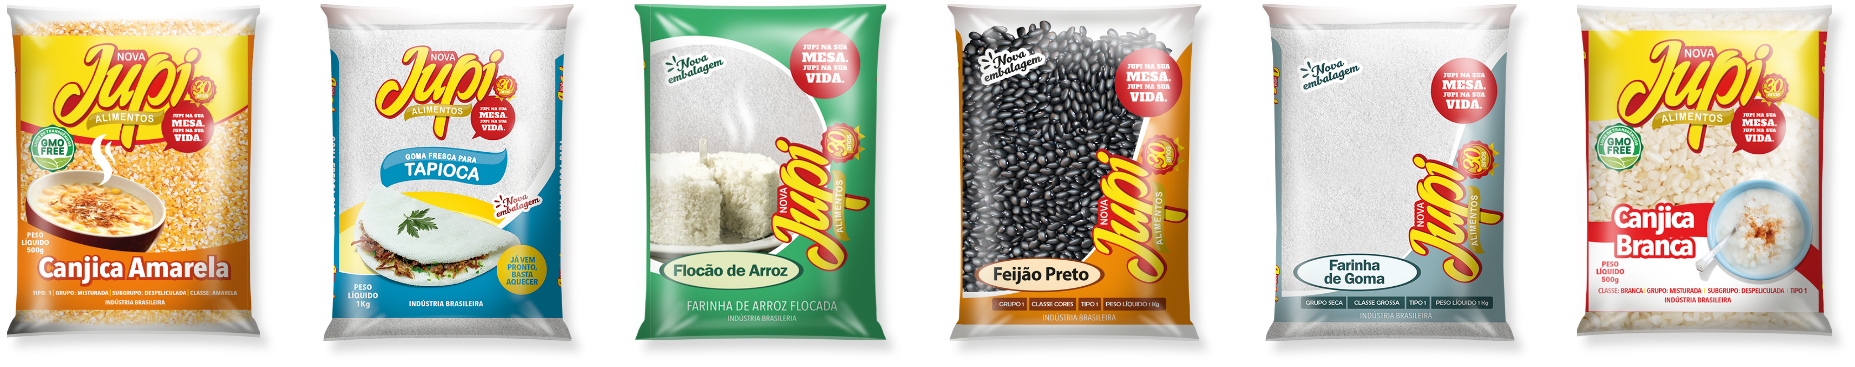
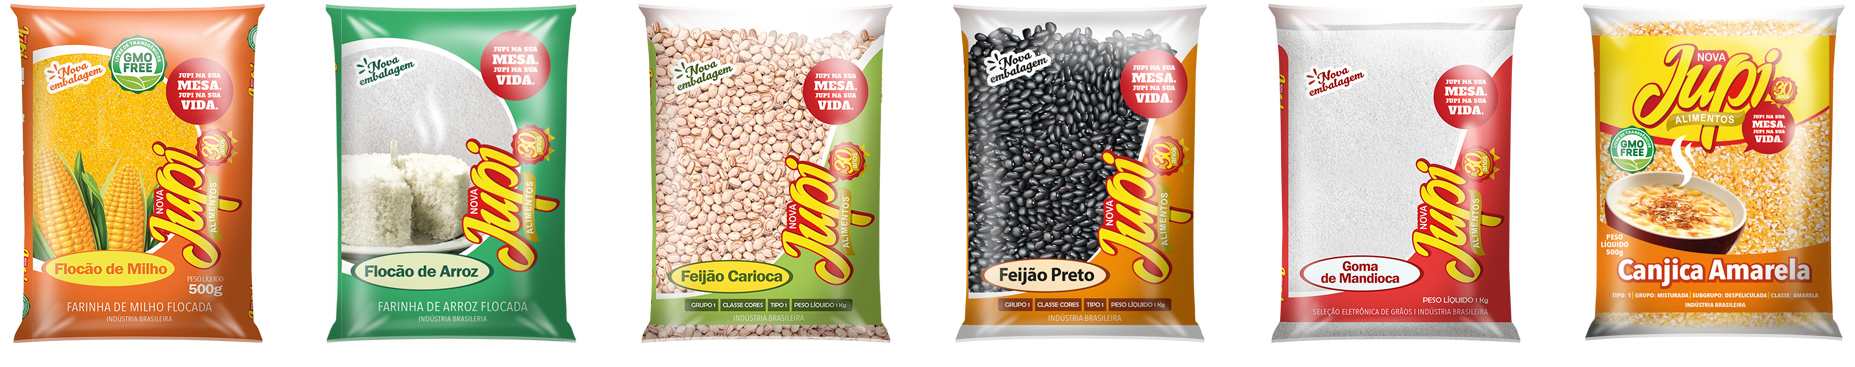
:recycle: Highlight images changed

diff --git a/src/components/Highlights/index.js b/src/components/Highlights/index.js
@@ -19,9 +19,9 @@ const Highlights = () => {
       <HighlightsWrapper className='row'>
         <div className='col-12'>
           <Highlight>
-            <HighlightTitle>Goma Para Tapioca</HighlightTitle>
+            <HighlightTitle>Flocão de Milho</HighlightTitle>
             <StaticImage
-              src='../../images/products/tapioca.png'
+              src='../../images/products/flocao-milho.png'
               alt='Família Jupi'
               placeholder='blurred'
               layout='fullWidth'
@@ -45,9 +45,9 @@ const Highlights = () => {
         </div>
         <div className='col-12'>
           <Highlight>
-            <HighlightTitle>Fava</HighlightTitle>
+            <HighlightTitle>Feijão Carioca</HighlightTitle>
             <StaticImage
-              src='../../images/products/fava.png'
+              src='../../images/products/feijao-carioca.png'
               alt='Família Jupi'
               placeholder='blurred'
               layout='fullWidth'
@@ -71,9 +71,9 @@ const Highlights = () => {
         </div>
         <div className='col-12'>
           <Highlight>
-            <HighlightTitle>Flocão de Milho</HighlightTitle>
+            <HighlightTitle>Goma de Mandioca</HighlightTitle>
             <StaticImage
-              src='../../images/products/flocao-milho.png'
+              src='../../images/products/goma-mandioca.png'
               alt='Família Jupi'
               placeholder='blurred'
               layout='fullWidth'
@@ -97,9 +97,9 @@ const Highlights = () => {
         </div>
         <div className='col-12'>
           <Highlight>
-            <HighlightTitle>Flocão de Arroz</HighlightTitle>
+            <HighlightTitle>Canjica Amarela</HighlightTitle>
             <StaticImage
-              src='../../images/products/flocao-arroz.png'
+              src='../../images/products/canjica-amarela.png'
               alt='Família Jupi'
               placeholder='blurred'
               layout='fullWidth'
